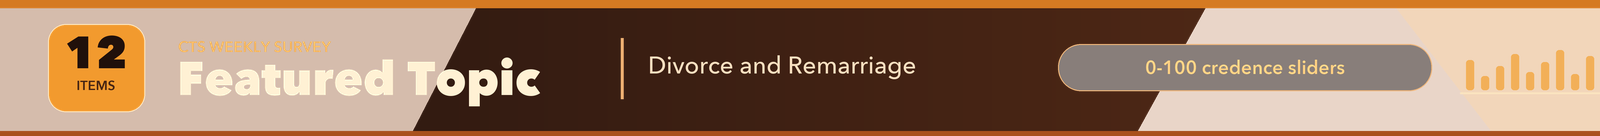
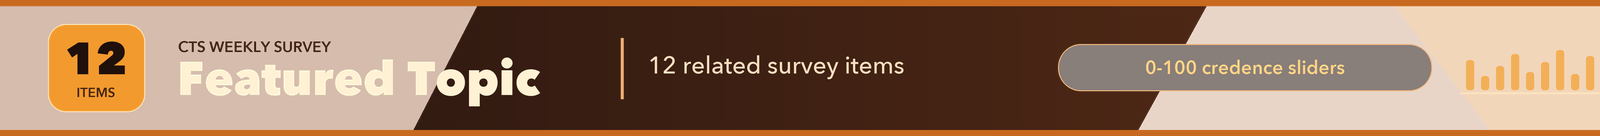
Refine survey section headers

diff --git a/scripts/render_survey_headers.py b/scripts/render_survey_headers.py
@@ -96,8 +96,9 @@ def shadowed_panel(draw: ImageDraw.ImageDraw) -> None:
         [(sc(1390), sc(0)), (sc(W), sc(0)), (sc(W), sc(H)), (sc(1495), sc(H))],
         fill=color("#D77B22", 80),
     )
-    draw.rectangle((0, 0, sc(W), sc(8)), fill=color("#D57A22"))
-    draw.rectangle((0, sc(H - 5), sc(W), sc(H)), fill=color("#A9501D"))
+    rule = color("#C7691F")
+    draw.rectangle((0, 0, sc(W), sc(6)), fill=rule)
+    draw.rectangle((0, sc(H - 6), sc(W), sc(H)), fill=rule)
 
 
 def draw_microbars(draw: ImageDraw.ImageDraw, x0: int, y0: int, values: list[int]) -> None:
@@ -130,10 +131,10 @@ def render(
     shadowed_panel(draw)
 
     rounded(draw, (48, 24, 145, 112), 18, color("#F29A2E"), color("#FFD28A", 150), 1)
-    text(draw, (96, 54), marker, color("#20100B"), MARK_BIG, "mm")
-    text(draw, (96, 86), marker_label, color("#462513"), MARK_SMALL, "mm")
+    text(draw, (96, 60), marker, color("#20100B"), MARK_BIG, "mm")
+    text(draw, (96, 93), marker_label, color("#462513"), MARK_SMALL, "mm")
 
-    text(draw, (178, 37), "CTS WEEKLY SURVEY", color("#F5B55D"), EYEBROW)
+    text(draw, (178, 37), "CTS WEEKLY SURVEY", color("#3A1E10"), EYEBROW)
     text(draw, (177, 80), title, color("#FFF1D4"), TITLE, "lm")
 
     line_x = max(622, round(177 + TITLE.getlength(title) / SCALE + 48))
@@ -156,7 +157,7 @@ def main() -> None:
         "12",
         "ITEMS",
         "Featured Topic",
-        "Divorce and Remarriage",
+        "12 related survey items",
         "0-100 credence sliders",
         [30, 14, 24, 36, 18, 28, 40, 16, 34, 22, 37, 26],
     )
